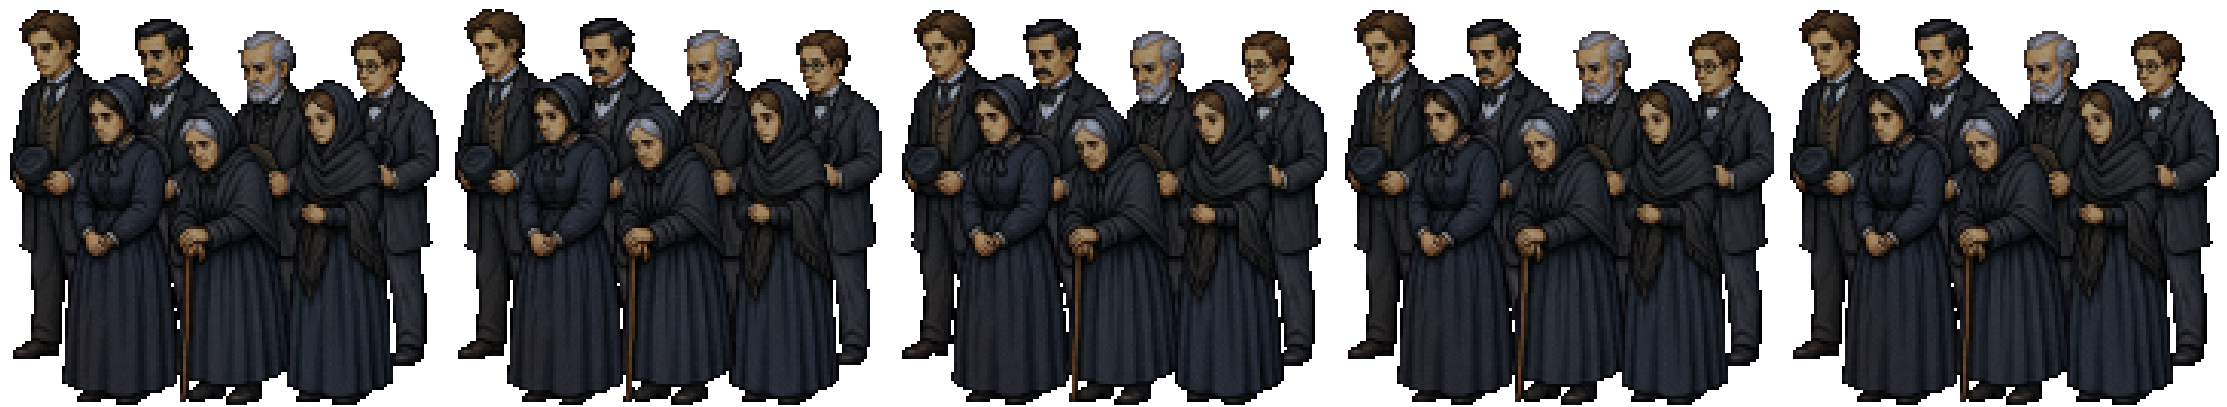
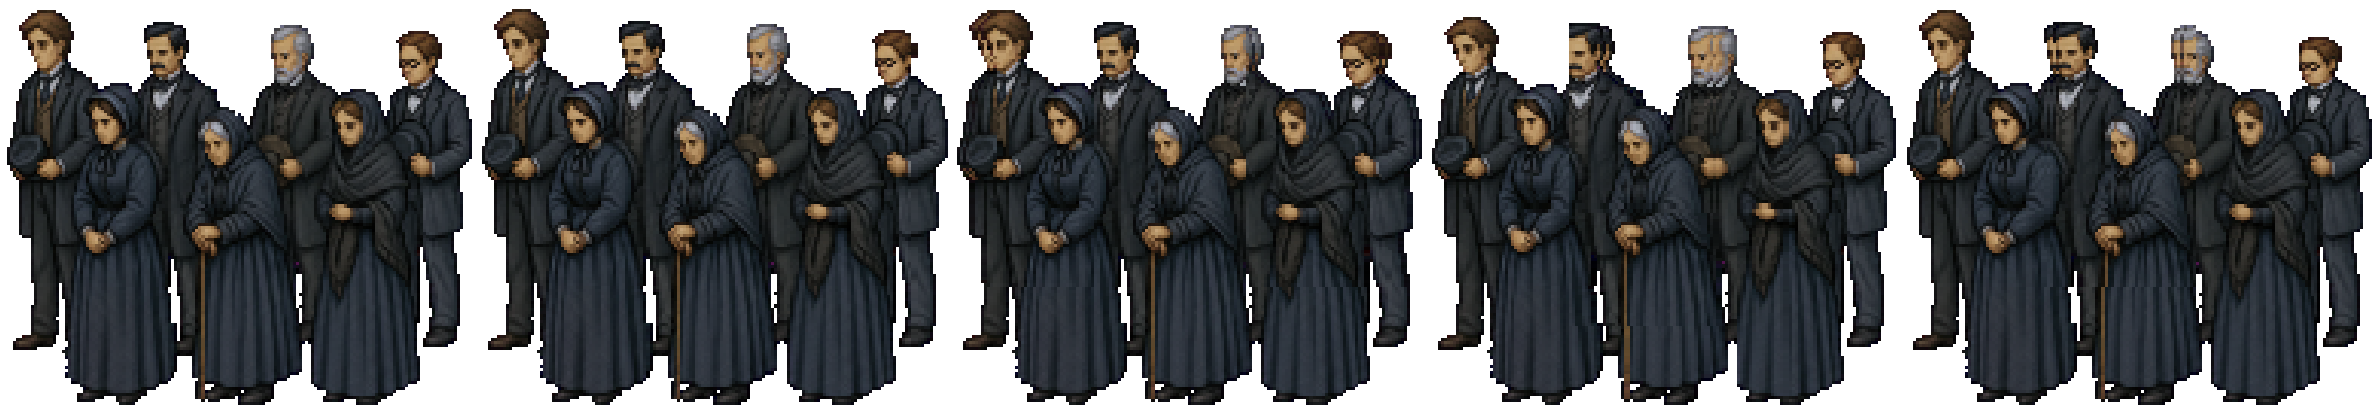
Errata 377: the mourners and the Reverend, redrawn to Thad's proportions, wired
Mourners' rest frame from the image session, frames 1-4 derived and
re-snapped; the duel and Nugget Reverend records take their taller cells;
faces.test.mjs reads the head from the crown over the torso; doc 55 row.

Claude-Session: https://claude.ai/code/session_01FXbCus2Hm36NL2YuHFGB8T

diff --git a/tools/art/memorial-crowd-frames.py b/tools/art/memorial-crowd-frames.py
@@ -1,0 +1,102 @@
+"""ERRATA 377: THE MEMORIAL MOURNERS' FRAMES, FROM THE REDRAWN REST FRAME. No image operation.
+
+Errata 376 (Tyler, 2026-11-17: "Redraw the mourners"): the image session drew only the rest pose
+(art/staging/memorial-crowd/rest-cut.png, reference/memorial-crowd-art/handback.md), in a cell widened 443 -> 473 with
+the soles on the old row. The record's other four frames are derived from it the way tools/art/room31-cast.py derived
+the old sheet's (tools/rig/room04-idles.py's method: parts move whole pixels, nothing is repainted): 1 a breath, and
+2-4 a different two or three of them shifting their weight. The thirds and the shifts are room31-cast.py's.
+
+    python3 tools/art/memorial-crowd-frames.py [--write]
+
+Writes art/actors/room-14-town-coming-down.png and the record's frame rects (content/ambient/memorial-town.json), then
+puts the sheet back on the one level with `tools/art/one-level.py --resnap --only` (this sheet only).
+"""
+import json
+import os
+import subprocess
+import sys
+
+import numpy as np
+from PIL import Image
+
+ROOT = os.path.dirname(os.path.dirname(os.path.dirname(os.path.abspath(__file__))))
+R = lambda p: os.path.join(ROOT, p)
+REST = 'art/staging/memorial-crowd/rest-cut.png'
+SHEET = 'art/actors/room-14-town-coming-down.png'
+RECORD = 'content/ambient/memorial-town.json'
+GAP = 2
+
+
+def lean(a, pivot, crown_dx, cols=None):
+    """Shear the rows above `pivot` (in `cols` only): crown_dx px at row 0, nothing at the pivot."""
+    out = a.copy()
+    c0, c1 = cols if cols else (0, a.shape[1])
+    seg = a[:, c0:c1].copy()
+    new = seg.copy()
+    for y in range(pivot):
+        dx = int(round(crown_dx * (pivot - y) / pivot))
+        row = np.zeros_like(seg[y])
+        if dx > 0:
+            row[dx:] = seg[y, :-dx]
+        elif dx < 0:
+            row[:dx] = seg[y, -dx:]
+        else:
+            row = seg[y]
+        new[y] = row
+    if cols:
+        hole = (new[..., 3] == 0) & (seg[..., 3] > 0)
+        new[hole] = seg[hole]
+    out[:, c0:c1] = new
+    return out
+
+
+def nod(a, line, depth, cols=None):
+    """The rows above `line` (in `cols` only) resampled down: depth px at row 0, nothing at the line."""
+    out = a.copy()
+    c0, c1 = cols if cols else (0, a.shape[1])
+    for y in range(line + 1):
+        src = y - int(round(depth * (line - y) / max(1, line)))
+        out[y, c0:c1] = a[src, c0:c1] if src >= 0 else 0
+    return out
+
+
+def breath(a, waist):
+    """Everything above `waist` up one pixel."""
+    out = a.copy()
+    out[: waist - 1] = a[1:waist]
+    out[waist - 1] = a[waist]
+    return out
+
+
+def main():
+    a = np.asarray(Image.open(R(REST)).convert('RGBA')).copy()
+    h, w = a.shape[:2]
+    thirds = [(0, w * 30 // 100), (w * 30 // 100, w * 62 // 100), (w * 62 // 100, w)]
+    f2 = lean(lean(a, h * 85 // 100, 9, thirds[0]), h * 85 // 100, -9, thirds[2])
+    f3 = nod(lean(a, h * 85 // 100, -9, thirds[1]), h * 25 // 100, 8, thirds[0])
+    f4 = lean(nod(a, h * 25 // 100, 8, thirds[2]), h * 85 // 100, 9, thirds[1])
+    frames = [a, breath(a, h * 50 // 100), f2, f3, f4]
+    out = np.zeros((h + 2 * GAP, len(frames) * (w + GAP) + GAP, 4), np.uint8)
+    rects = []
+    for i, f in enumerate(frames):
+        x = GAP + i * (w + GAP)
+        out[GAP:GAP + h, x:x + w] = f
+        rects.append([x, GAP, w, h])
+    print(json.dumps(rects))
+    if '--write' in sys.argv:
+        Image.fromarray(out).save(R(SHEET))
+        text = open(R(RECORD)).read()
+        rec = json.loads(text)
+        indent = next(i for i in (1, 2) if json.dumps(rec, indent=i, ensure_ascii=False) + '\n' == text)
+        rec['sprite']['frames'] = rects
+        rec['sprite']['frameNote'] = ('0 hats held, turned down the hill (redrawn to Thad\'s proportions, errata 376) '
+                                      '· 1 breath · 2-4 a different two or three of them shifting their weight '
+                                      '(derived, tools/art/memorial-crowd-frames.py)')
+        open(R(RECORD), 'w').write(json.dumps(rec, indent=indent, ensure_ascii=False) + '\n')
+        # A nod resamples rows by whole pixels, off the block grid (frame 3 read 9.9% finer than the level): every
+        # frame back on the one level, each block one of the drawing's own colours (one-level.py, this sheet only).
+        subprocess.run([sys.executable, R('tools/art/one-level.py'), '--resnap', '--only', os.path.basename(SHEET)], check=True)
+
+
+if __name__ == '__main__':
+    main()

diff --git a/docs/55-full-game-build.md b/docs/55-full-game-build.md
@@ -285,6 +285,7 @@ Every row here shipped past a green suite and was found by Tyler playing, by a r
 - **Ask for an outdoor scatter, not rows.** Boot Hill's master stood its boards in two neat lines, and Tyler, seeing it: "the gravestones need to maybe be a bit more scattered." A graveyard, a camp or a yard grows irregularly; a brief for one says "scattered, irregular spacing, some leaning, in loose clusters" from the first image, or it costs an operation later.
 - **When the cap is spent on a miss, compose from what the operations made.** Room 14's filled grave came back without its headboard; the open grave's operation had drawn one in the same place. The state was composed from the two operations' own pixels (`tools/art/room14-compose.py`) rather than accepted wrong or spent past the cap.
 - **Measure a container against what it must hold before generating what goes in it.** Room 15's master painted a pen about 1.7 m across for doc 09's four mules; a mule side-on is 2.1 m. Three drawings went into it -- heads with no bodies, four squeezed copies, a crowd cut off by the wall -- before the arithmetic said no side-on mule fits whole at true scale (Tyler: "that size pen could hold maybe 1 or 2"). Work out the space at the room's scale (Thad's height at that depth is 1.75 m) in the graybox, and size the pen, the stall or the table to its contents there.
+- **When the line-up flags a head, look at that sheet beside Thad in its own room before overriding the number** (errata 377). The Reverend's Nugget sheet measured a face of 18.5 against Thad's 26.4 (`tools/art/fanshawe-lineup.py --sowerby`); the image session read that as his white beard fooling a skin measure, checked the head only in the line-up's strip, and passed it. In the back room beside Thad it was plainly half-size, and it was caught in play. A number can be wrong, but the place to find out is the room, at game size, beside Thad.
 - **An animal is a figure, and the master's animals are not a source.** The composition master's mules were heads with no bodies. Animals get a sheet on magenta against Thad like any figure, whole, and move like any figure (errata 77).
 - **A character with no written look is not a costume from a stock type.** Room 16's master, briefed with a head-wrap, hoop earrings and kohl for a fortune-teller nobody had described, drew an ethnic caricature. Brief an undescribed character from what the documents do say (a fraud, theatrical, the period) and from the period itself -- an 1850s American medium -- never from a stereotype of a people.
 - **An action on something in the plate reads only if the hands land on it.** Room 17's first rope-pull sheet was briefed without the rope (the image service refuses a man gripping one overhead) and came back with the hands shoulder-width apart, one either side of the plate's rope, coming down onto his head: Tyler, 2026-11-06, "he's stretching, not pulling a rope." The correction, shown that sheet, stacked both fists on the centre line, and they fell on the plate's rope at the stand. **Brief the grip in the words of the action (where the hands are, together or apart, on what line), and before cutting a sheet, set every pose on the plate at game size at its stand and check that the hands meet the thing they act on** (`reference/room-17/rope-pull/brief.md`).

diff --git a/docs/00-errata.md b/docs/00-errata.md
@@ -8824,3 +8824,15 @@ Lesson: `tests/rod-required.test.mjs`: G2's site waits for the rod, only the rod
 Measured, his face at the memorial matches Thad's and every other Fanshawe's (26.5 against Thad's 26.4 at a man's scale); the mourners beside him are drawn with heads about 1.3 to 1.4 times Thad's (the Act II art review, finding 9). The brief for one picture of them at Thad's proportions is `reference/memorial-crowd-art/brief.md`. Nothing is drawn until Tyler pastes its prompt into the image session; the main session then derives the other frames and wires it.
 
 Lesson: none -- a brief, not a fix; the fix will carry its check when the drawing is wired.
+
+## 377 · The mourners and the Reverend, redrawn to Thad's proportions, wired (Tyler, 2026-11-17 and 18: "Redraw the mourners"; "now the priest is the one character out of place", "All six sheets (Recommended)"; "The Nugget back image of the reverend has a comically small head"; on his duel and Nugget face and colour, "1 op, +1 correction (Recommended)")
+
+The image session's two hand-backs are `reference/memorial-crowd-art/handback.md` and `reference/sowerby-art/handback.md` (ten operations in all: one for the mourners, nine for the Reverend; `art/staging/caps.json` and `ledger.json` as the branch left them). Tyler approved how the Reverend looks.
+
+- **The mourners at Pike's memorial** (`memorial_town`): the redrawn rest frame (`art/staging/memorial-crowd/rest-cut.png`, the cell widened 443 to 473 about its centre, soles on the old row) is frame 0 of `art/actors/room-14-town-coming-down.png`; frames 1 to 4 (a breath, and a different few shifting their weight each time) are derived from it by `tools/art/memorial-crowd-frames.py`, room31-cast.py's method. figureHeight unchanged. Their heads are now Fanshawe's size. The same mourners at the gate and bowed (Act III's procession) and at the graveside keep the old drawing.
+- **The Reverend in all five sheets.** The master (funeral, procession, gate), the praying and the plate sheets drop in at their own paths with their frames. The duel and the Nugget back room sheets are taller at the top, for the raised pencil: `duel-sowerby` frames are now `[2 + 196i, 2, 194, 424]` and `sowerby` `[2 + 224i, 2, 222, 493]`; figureHeight and anchors unchanged, so he stands the same size in the same place.
+- **`tests/faces.test.mjs` reads the head from the crown over the torso.** With the bold pencil raised above his crown, the band from the topmost drawn pixel took his hand for his face (-9.5); read from the first drawn row over the torso's columns, his head reads -2.4, front, as the cut and line-up tools measure him. The threshold is unchanged and every other figure reads as it did.
+
+Seen in the build: the memorial, the procession, the funeral, the Nugget back room.
+
+Lesson: doc 55 §8, "When the line-up flags a head, look at that sheet beside Thad in its own room before overriding the number."
